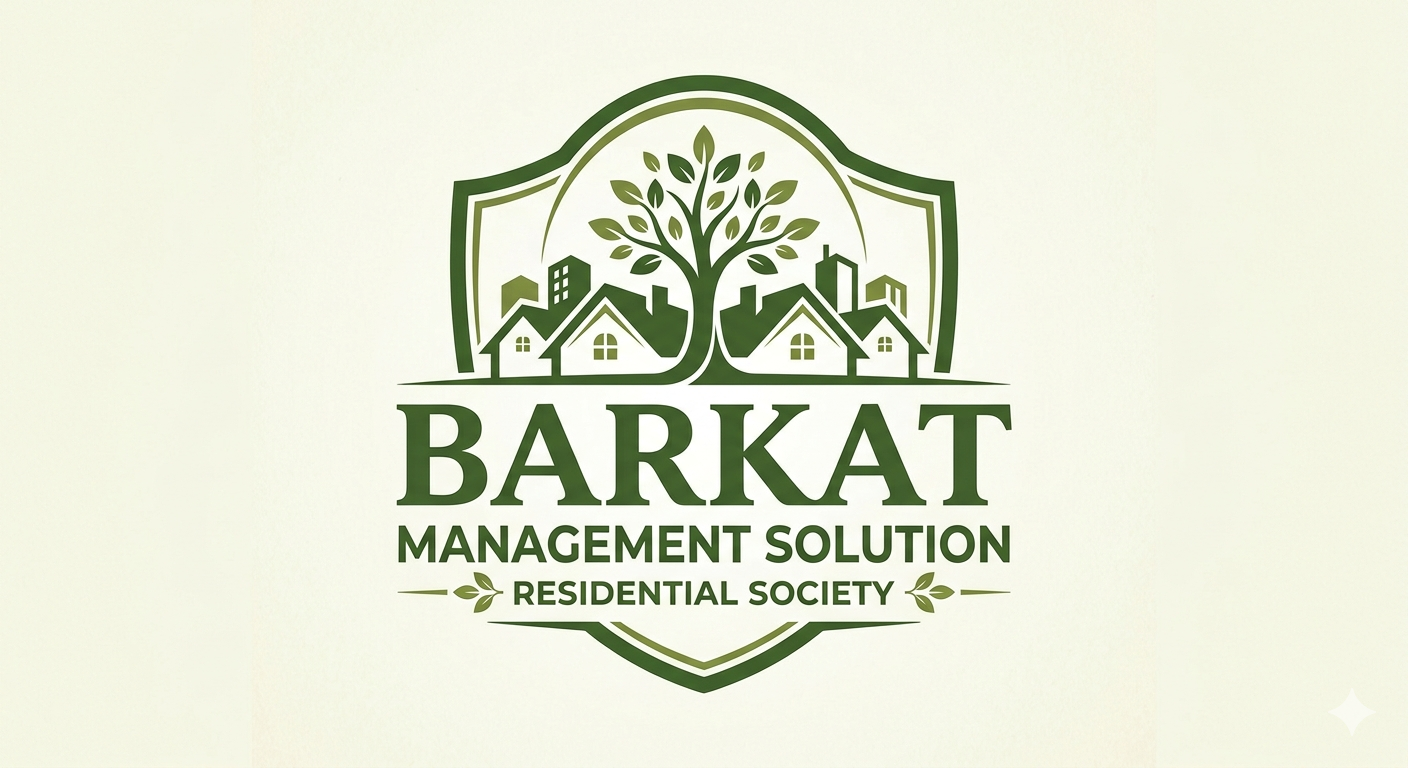
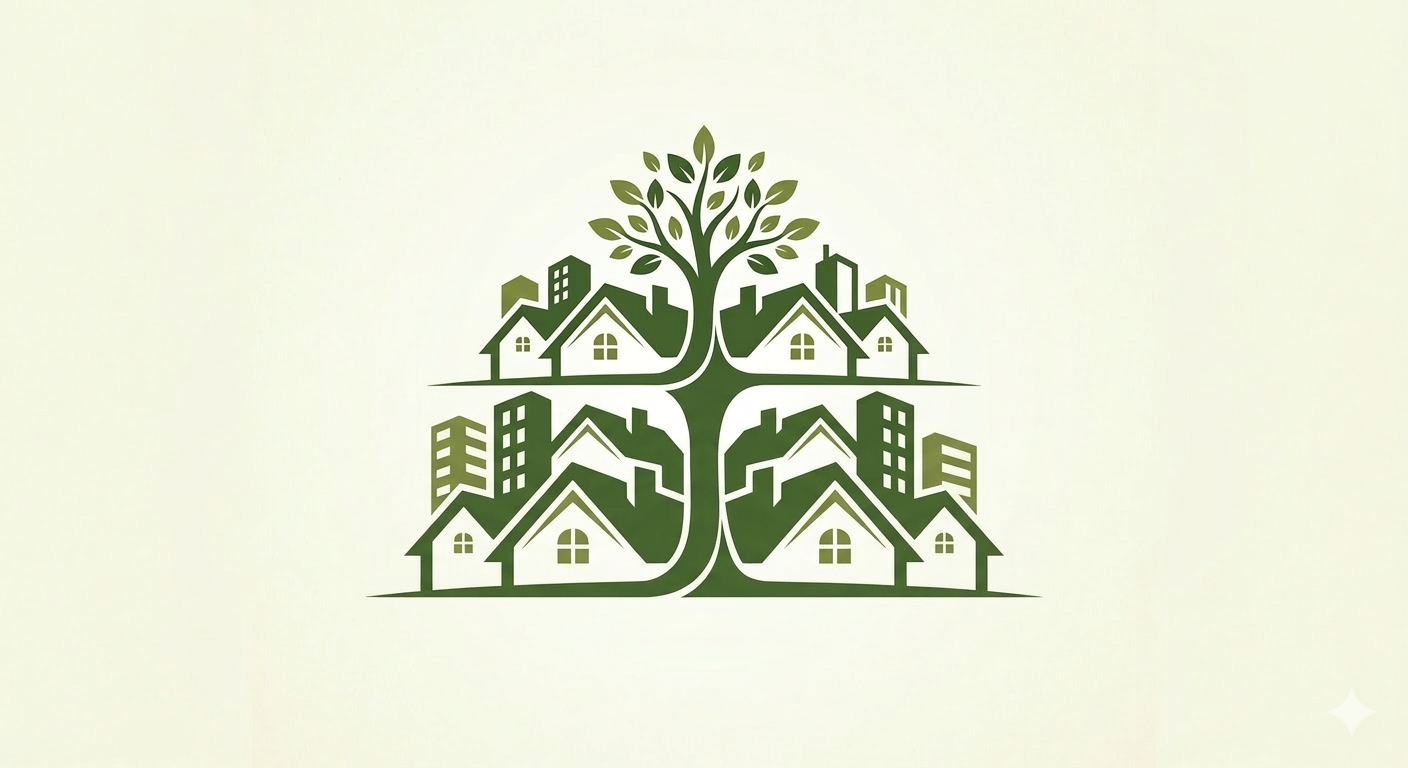
refactor: rename project from bevery-hills to barkat
Rename all project references from "bevery-hills" to "barkat" including:
- Package name and product name in package.json and electron-builder.yml
- Database file names and paths in database.ts
- README.md title
- Application executable name
- Update icon.png to match new branding

Changed region(s): [[0.2812, 0.0938, 0.7188, 0.9062]]

diff --git a/src/main/db/database.ts b/src/main/db/database.ts
@@ -54,8 +54,8 @@ class DatabaseService {
 
   constructor() {
     const dbPath = app.isPackaged
-      ? path.join(app.getPath('userData'), 'beverly-hills.db')
-      : path.join(__dirname, '../../beverly-hills.db')
+      ? path.join(app.getPath('userData'), 'barkat.db')
+      : path.join(__dirname, '../../barkat.db')
 
     this.db = new Database(dbPath)
     this.db.pragma('journal_mode = WAL')

diff --git a/README.md b/README.md
@@ -1,4 +1,4 @@
-# bevery-hills
+# barkat
 
 An Electron application with React and TypeScript
 
